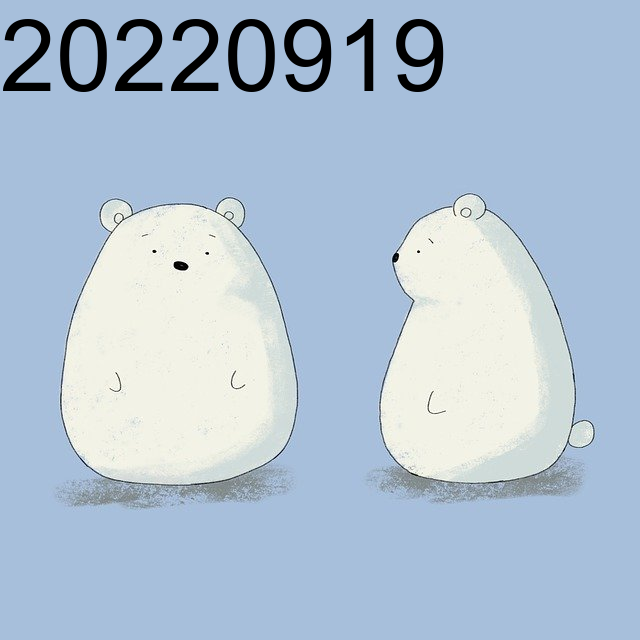
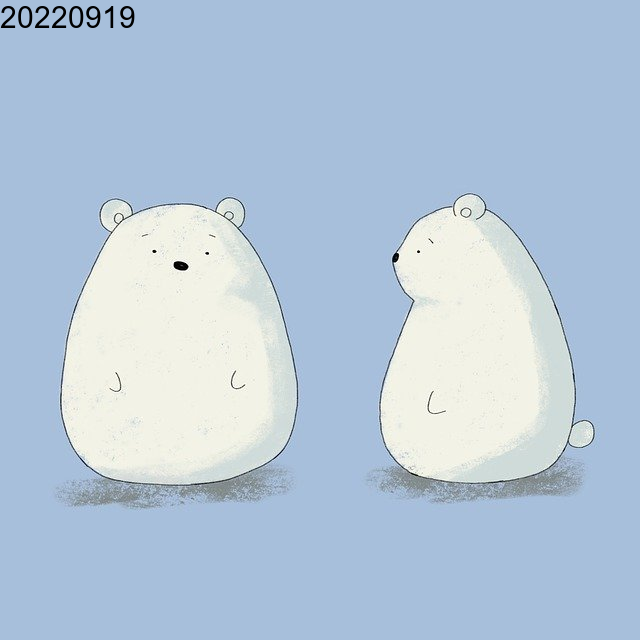
시도중

Changed region(s): [[0.0, 0.0, 0.7188, 0.1562]]

diff --git a/start/app.py b/start/app.py
@@ -1,0 +1,19 @@
+from PIL import Image, ImageDraw, ImageFont
+                    #(가로, 세로)
+img = Image.new("RGBA", (100,100), 0)
+
+soimg = Image.open(f"./img/so/2.jpg")
+
+fnt = ImageFont.truetype("arial.ttf", 30)
+
+draw = ImageDraw.Draw(soimg)
+        #(좌표 : x, y)
+draw.text((0,0), "20220919", font=fnt, fill=(0,0,0))
+
+draw = ImageDraw.Draw(soimg)
+
+img.save('./img/save/text.png')
+
+soimg.save('./img/save/soimg.png')
+
+soimg.show()

diff --git a/start/512.py b/start/512.py
@@ -9,10 +9,10 @@ str = "good"
 hash_sha3_512 = hashlib.new("sha3_512", str.encode())
 h = list(hash_sha3_512.hexdigest())
  
-result = []
-for i in range(0,len(h),2):
-    result.append(h[i:i+2])
-print(result)
+# result = []
+# for i in range(0,len(h),2):
+#     result.append(h[i:i+2])
+# print(result)
 
 
-# print("\nSHA3-512 Hash: ", h)
+print("\nSHA3-512 Hash: ", h)

diff --git a/memi/1.py b/memi/1.py
@@ -1,0 +1,9 @@
+import matplotlib.pyplot as plt
+import matplotlib.image as mpimg
+ 
+img = mpimg.imread("./memi.jpg")
+print(img)
+
+image_plot = plt.imshow(img)
+plt.show()
+
